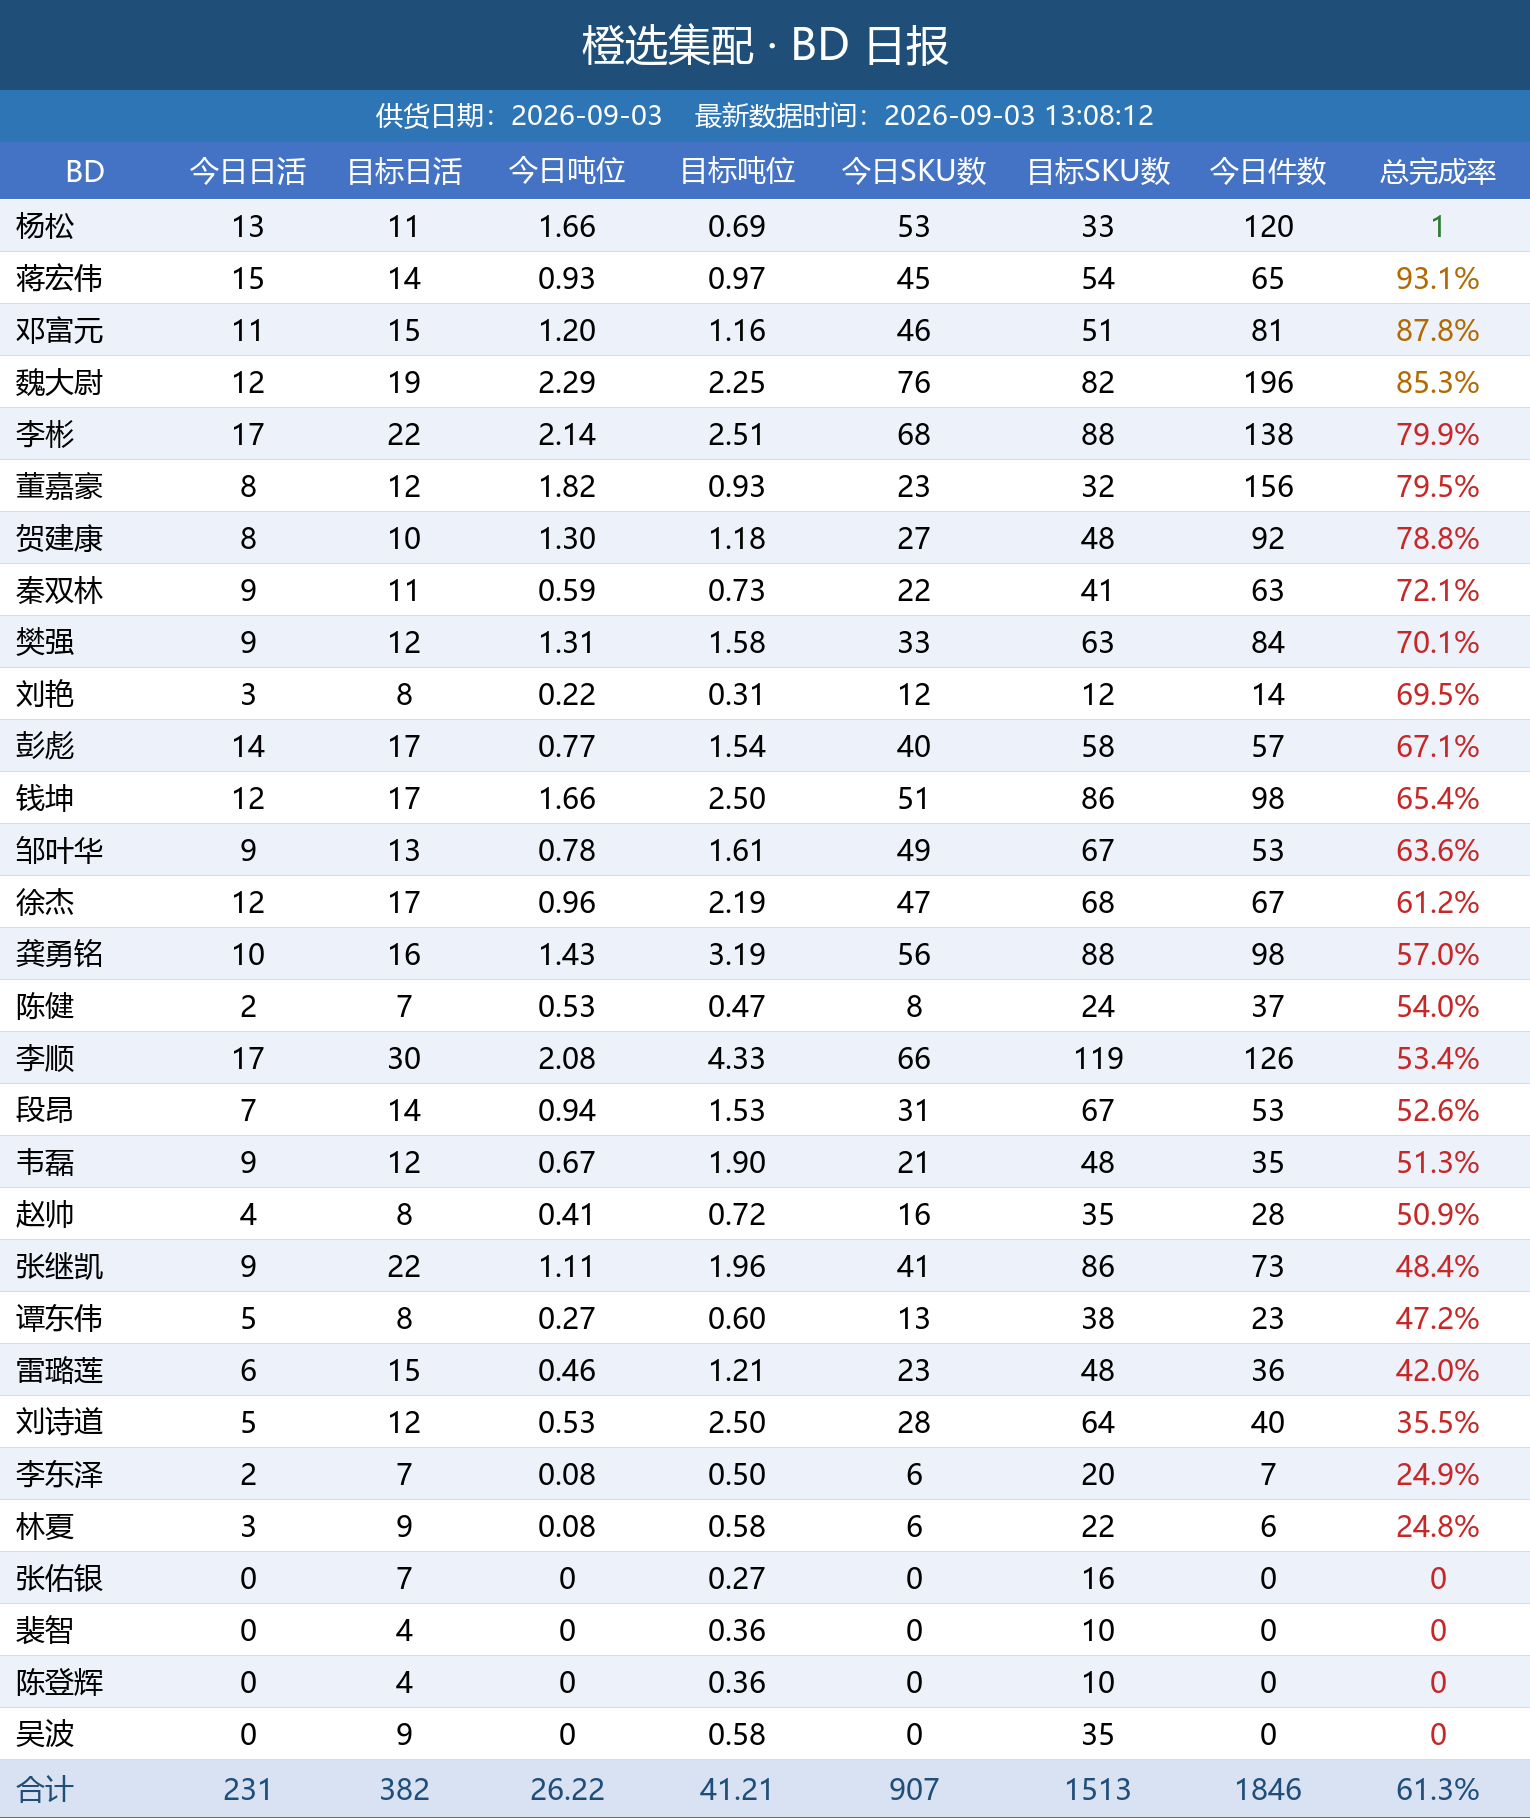
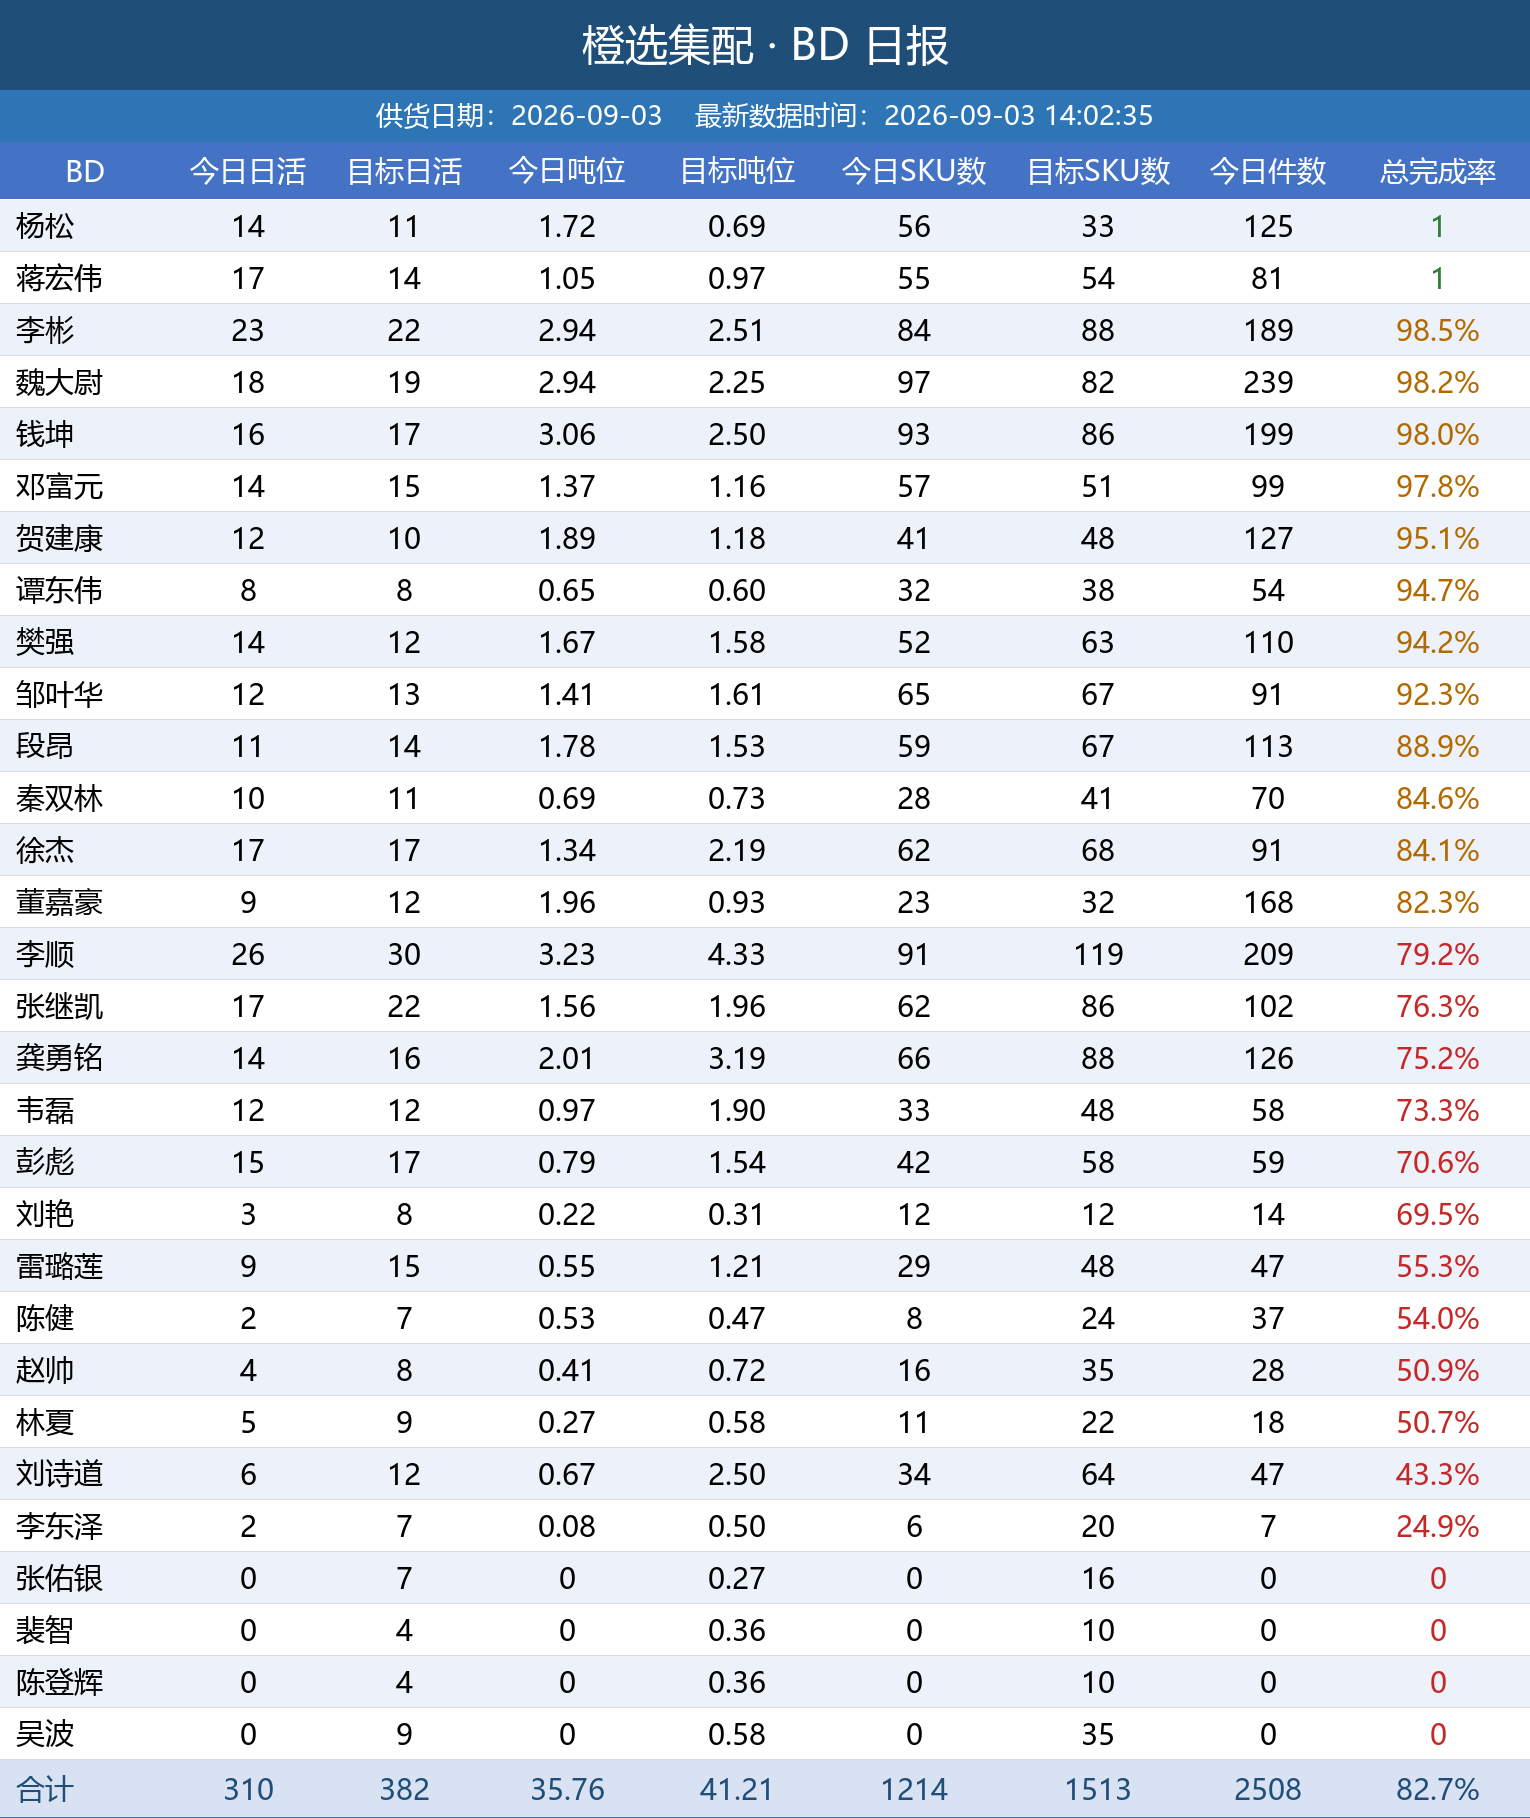
自动更新日报图片

diff --git a/index.html b/index.html
@@ -11,7 +11,7 @@ img { max-width: 100%; border: 1px solid #e5e5e5; margin-bottom: 24px; display: 
 </style>
 </head>
 <body>
-<h1>橙选集配日报图片（20260903_130818）</h1>
+<h1>橙选集配日报图片（20260903_140241）</h1>
 <img src="bd_latest.png" alt="BD 日报">
 <img src="wh_latest.png" alt="城市仓日报">
 <img src="zs_latest.png" alt="招商日报">
